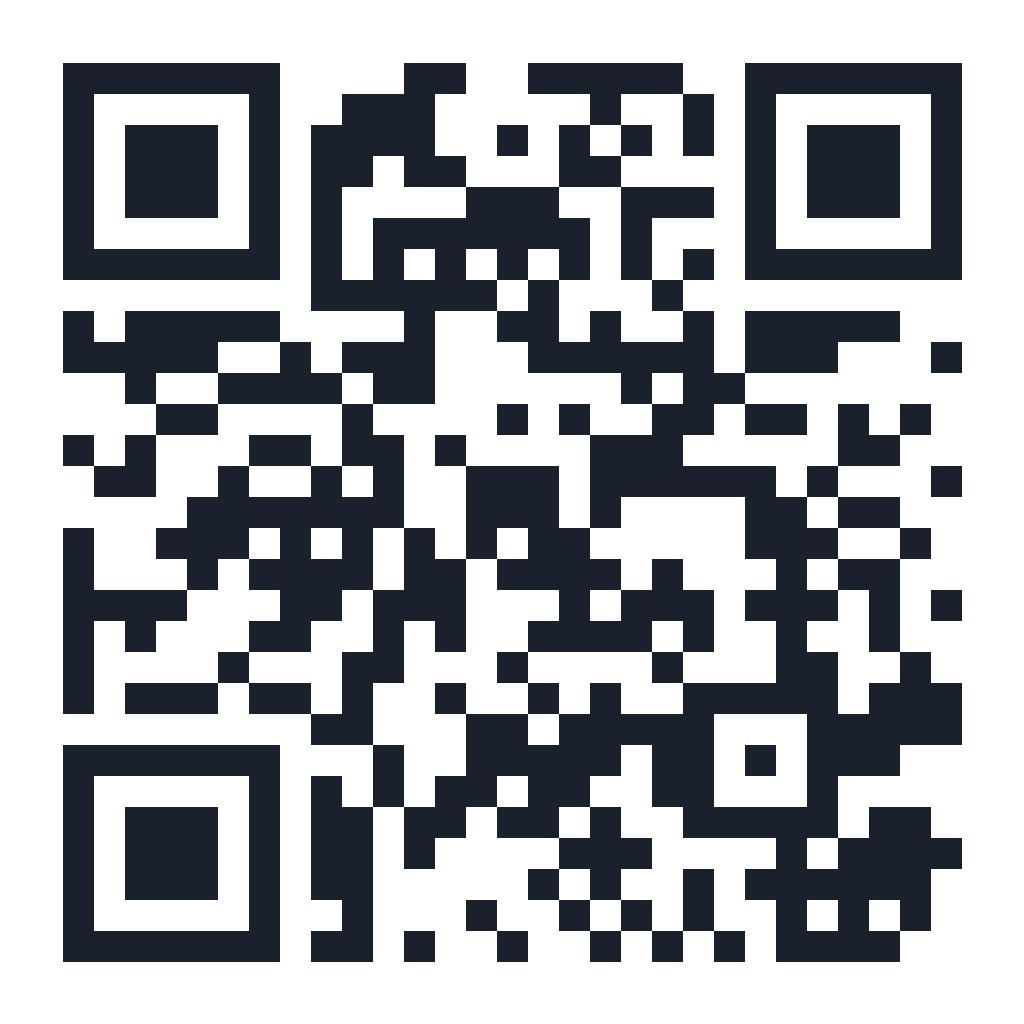
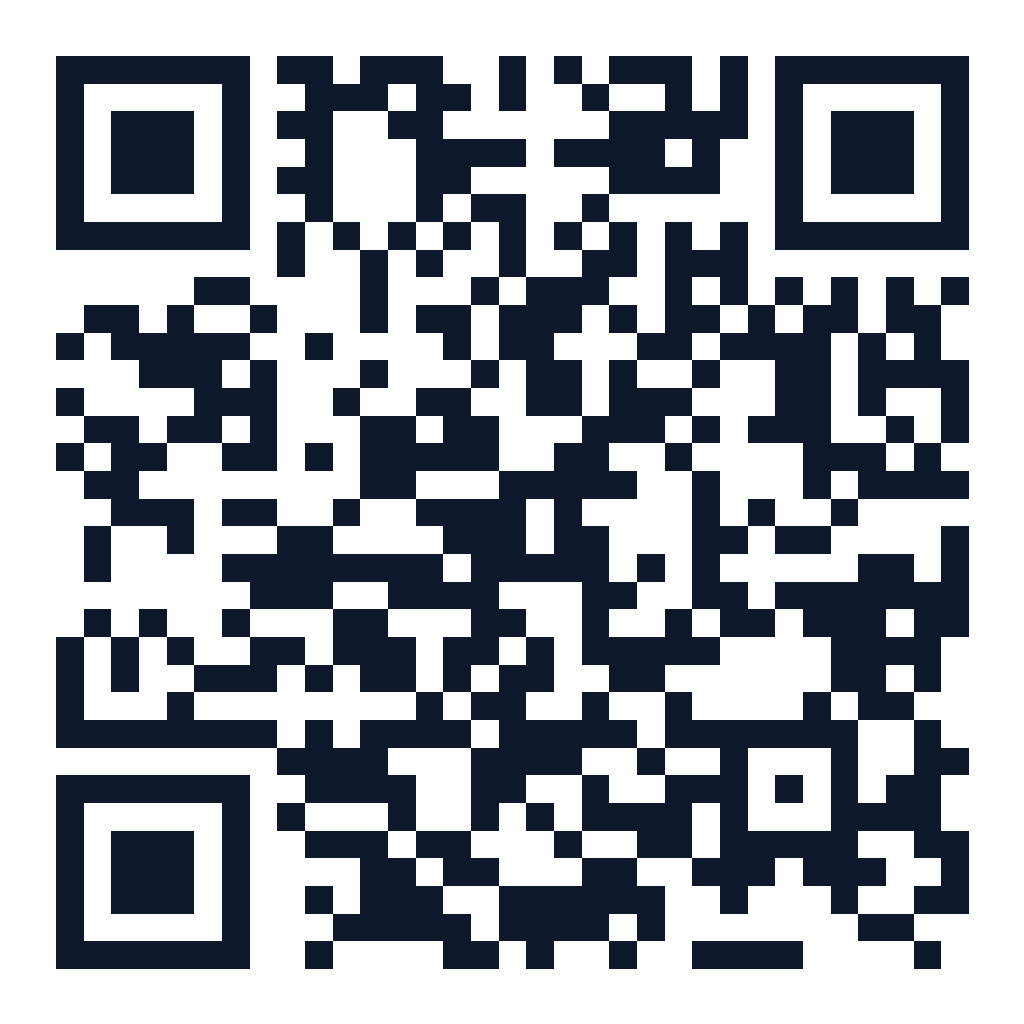
fix: use working www career fair URL

diff --git a/client/src/pages/connect.tsx b/client/src/pages/connect.tsx
@@ -19,7 +19,7 @@ const profile = {
   email: "scott@pralinsky.com",
   phoneDisplay: "520-345-1088",
   phoneHref: "+15203451088",
-  quickUrl: "https://southshore.ai/connect",
+  quickUrl: "https://www.southshore.ai/connect",
 };
 
 export default function ConnectPage() {
@@ -143,7 +143,7 @@ export default function ConnectPage() {
               This is hosted on South Shore AI’s live domain—no temporary Manus address required.
             </p>
             <div className="mt-3 flex items-center gap-2 rounded-xl border border-white/10 bg-background/70 p-2 pl-3">
-              <span className="min-w-0 flex-1 truncate font-mono text-[11px] text-primary">southshore.ai/connect</span>
+              <span className="min-w-0 flex-1 truncate font-mono text-[11px] text-primary">www.southshore.ai/connect</span>
               <button
                 type="button"
                 onClick={copyLink}
